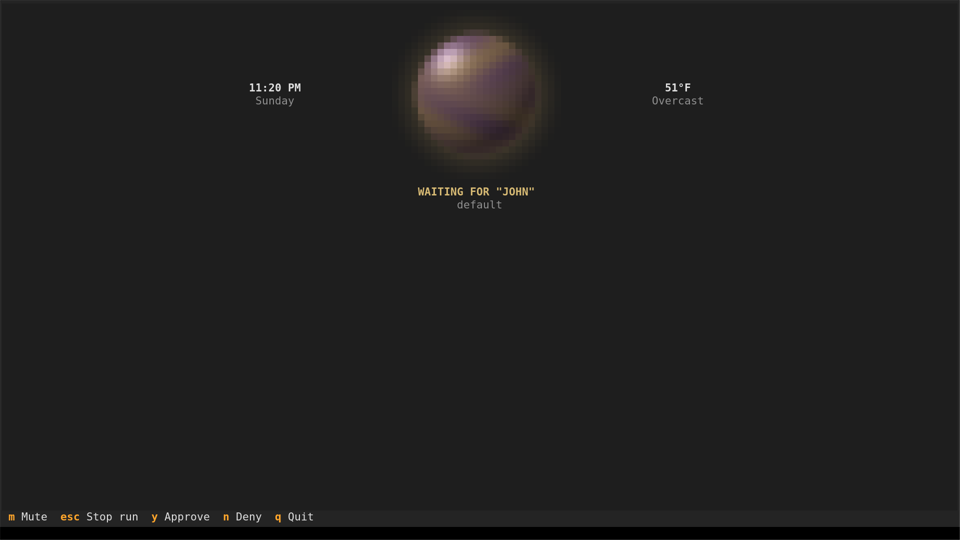
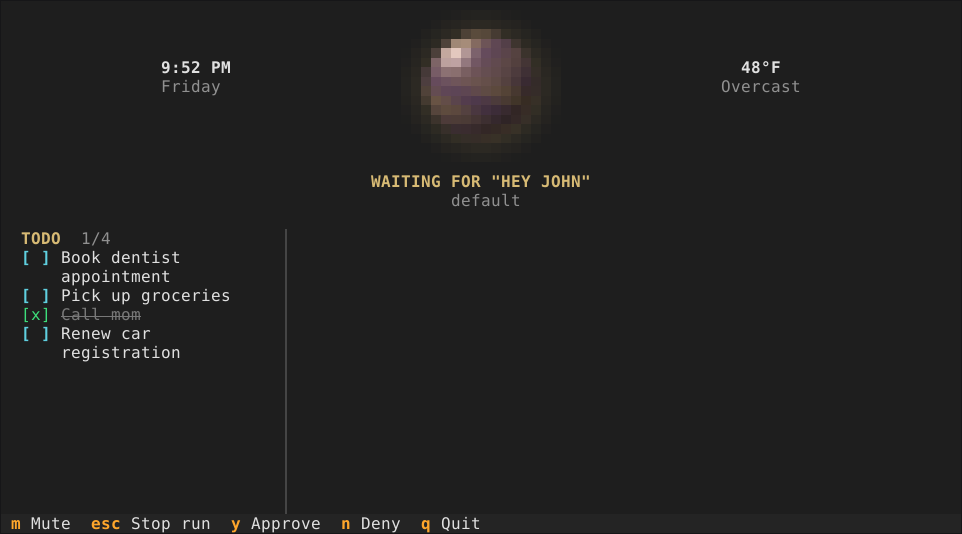
docs: refresh the README screenshot with the todo panel
The old screenshot showed the "john" wake label and no todo list. The new
one is taken from the current build and shows "hey john" and the todo panel.

diff --git a/README.md b/README.md
@@ -2,7 +2,7 @@
 
 Hermes Voice listens on the microphone, transcribes speech, and sends the text to a Hermes agent at `http://127.0.0.1:8642`. The conversation stays in the terminal. Replies are spoken aloud.
 
-![Hermes Voice waiting for the wake phrase, with the clock and weather beside the orb](assets/screenshot.png)
+![Hermes Voice waiting for "hey john", with the clock and weather beside the orb and the todo list below](assets/screenshot.png)
 
 ## Setup
 
